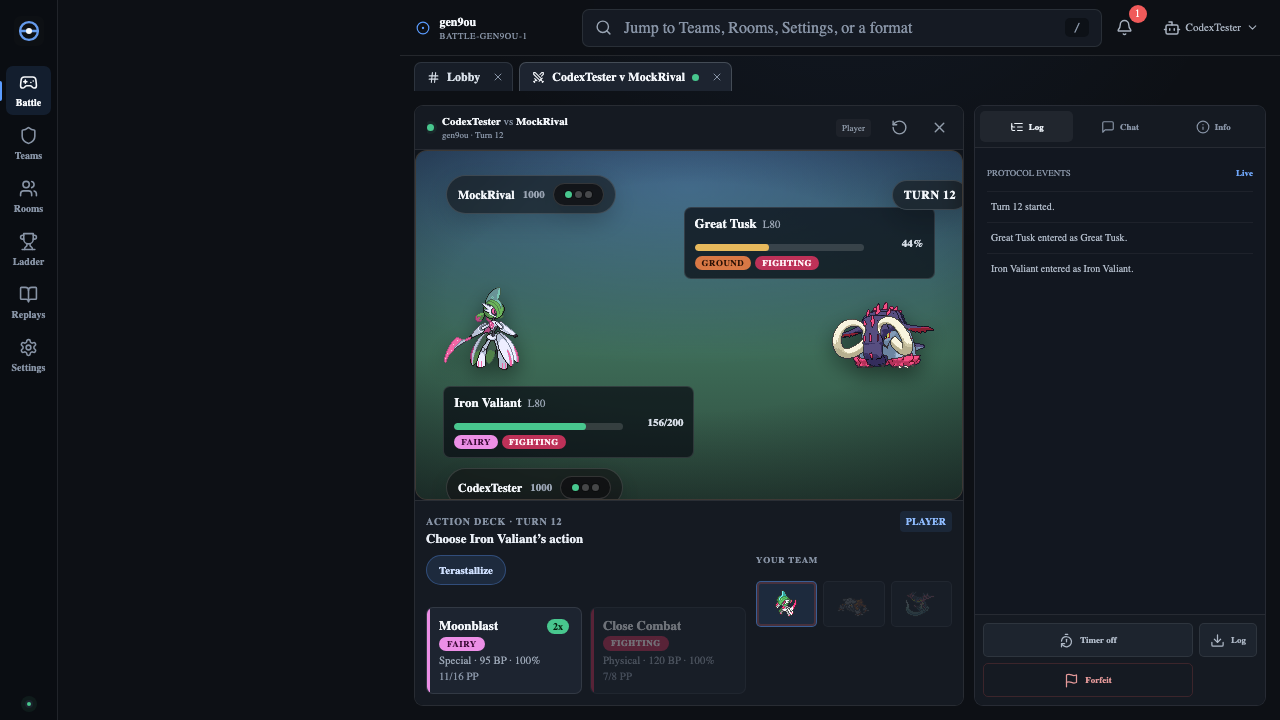
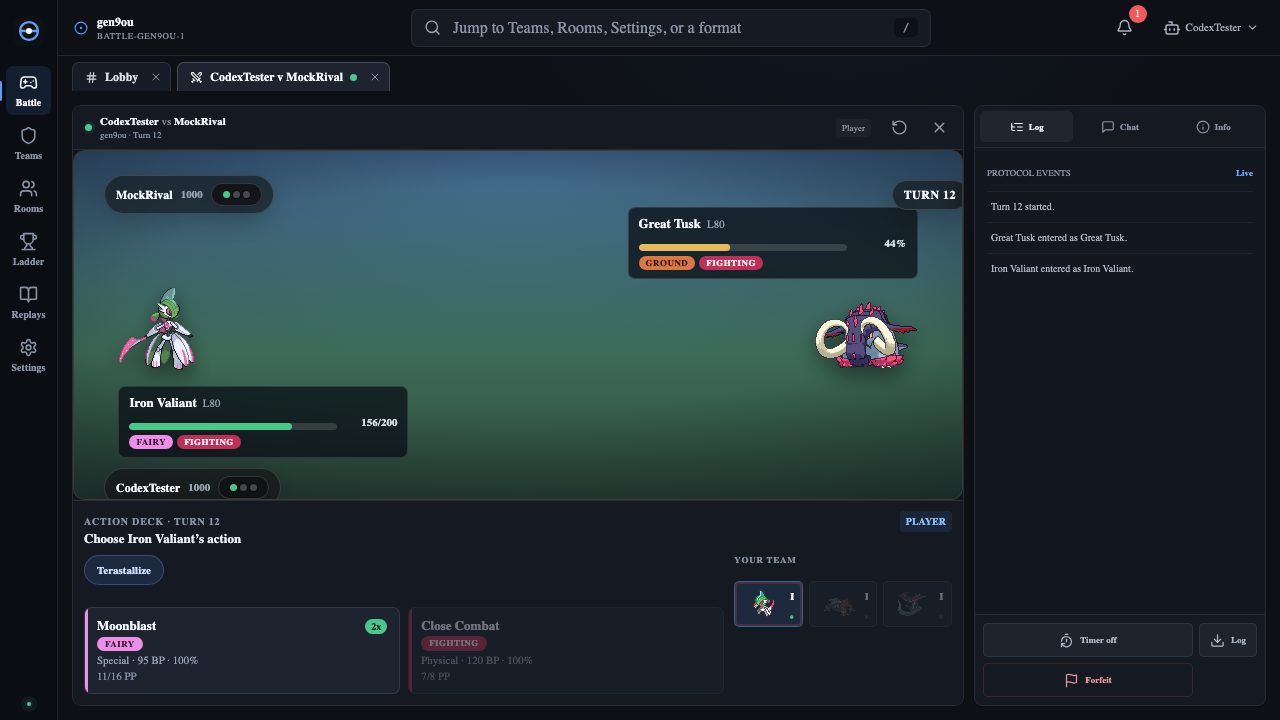
Fix right-anchored app shell on wide screens
.arena-main targeted grid column 3 of a two-column shell — a leftover
from the removed session sidebar (Phase 3 replaced it with tabs). The
empty 1fr column swallowed the middle of the screen, so on wide windows
the whole app rendered right-anchored with a dead zone after the nav
rail. A media query moved content back to column 2 below 980px, which
is why every mobile viewport and the 1280px e2e runs looked fine.

Content now lives in column 2 everywhere. The dead .session-sidebar
rule, the superseded .arena-app grids in base.css, and the duplicate
media re-declarations go with it — half-applying leftovers of exactly
the kind docs/architecture.md warns about.

Guard: layout.spec now runs every route at 1920x1080 and asserts the
content pane starts beside the rail and reaches the right edge — it
fails on the old CSS. The matchmaking visual baseline also waits for
the mock's Lobby tab before screenshotting, so fast and slow runs
capture the same steady state; baselines and the README screenshot are
regenerated at full width.

diff --git a/e2e/layout.spec.ts b/e2e/layout.spec.ts
@@ -64,6 +64,27 @@ for (const route of ROUTES) {
   });
 }
 
+test.describe('wide desktop', () => {
+  test.use({ viewport: { width: 1920, height: 1080 } });
+
+  for (const route of ROUTES) {
+    test(`${route.name} fills the width beside the rail`, async ({ page }) => {
+      await page.goto(route.path);
+      await expect(page.locator('#workspace')).toBeVisible();
+
+      // Regression: .arena-main once targeted grid column 3 of a two-column
+      // shell (a leftover from the removed session sidebar), so the empty 1fr
+      // column swallowed the middle of every wide screen and the app rendered
+      // right-anchored. Mobile viewports never showed it.
+      const rail = await page.locator('.primary-rail').boundingBox();
+      const main = await page.locator('.arena-main').boundingBox();
+      expect(main, 'arena-main must render').toBeTruthy();
+      expect(main!.x, 'content must start beside the rail').toBeLessThanOrEqual(rail!.x + rail!.width + 2);
+      expect(main!.x + main!.width, 'content must reach the right edge').toBeGreaterThanOrEqual(1920 - 4);
+    });
+  }
+});
+
 test('every surface keeps its primary heading', async ({ page }) => {
   for (const route of ROUTES) {
     await page.goto(route.path);

diff --git a/src/styles/shell.css b/src/styles/shell.css
@@ -123,7 +123,7 @@ textarea:focus-visible,
 }
 
 .arena-main {
-  grid-column: 3;
+  grid-column: 2;
   grid-row: 1;
   min-width: 0;
   height: 100svh;
@@ -322,27 +322,12 @@ textarea:focus-visible,
 }
 
 @media (max-width: 1180px) {
-  .arena-app {
-    grid-template-columns: 58px minmax(0, 1fr);
-  }
-
   .topbar {
     grid-template-columns: minmax(130px, 0.35fr) minmax(220px, 460px) auto;
   }
 }
 
 @media (max-width: 980px) {
-  .arena-app {
-    grid-template-columns: 58px minmax(0, 1fr);
-  }
-
-  .session-sidebar {
-    display: none;
-  }
-
-  .arena-main {
-    grid-column: 2;
-  }
 
   .topbar {
     grid-template-columns: minmax(130px, 0.4fr) minmax(220px, 1fr) auto;

diff --git a/e2e/visual.spec.ts b/e2e/visual.spec.ts
@@ -10,6 +10,9 @@ test('matchmaking cockpit visual baseline', async ({ page }) => {
   await page.goto('/');
   await expect(page.getByRole('heading', { name: 'Ready when you are.' })).toBeVisible();
   await expect(page.getByText('Online', { exact: true })).toBeVisible();
+  // The mock joins Lobby immediately after connecting; wait for the session
+  // tab so fast and slow runs screenshot the same steady state.
+  await expect(page.getByRole('button', { name: 'Lobby', exact: true })).toBeVisible();
   await expect(page).toHaveScreenshot('matchmaking-cockpit.png', {
     animations: 'disabled',
     maxDiffPixelRatio: 0.04,

diff --git a/src/styles/base.css b/src/styles/base.css
@@ -85,13 +85,6 @@ textarea:focus-visible,
 
 
 
-.arena-app {
-  display: grid;
-  grid-template-columns: 248px minmax(0, 1fr);
-  min-height: 100svh;
-}
-
-
 
 .nav-link,
 .icon-row,
@@ -1255,9 +1248,6 @@ textarea:focus-visible,
 }
 
 @media (max-width: 1120px) {
-  .arena-app {
-      grid-template-columns: 82px minmax(0, 1fr);
-    }
   .brand-lockup span,
     .nav-link span,
     .icon-row span,
